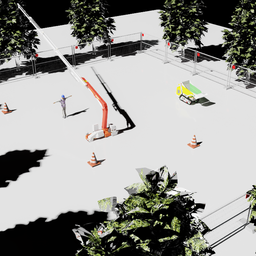
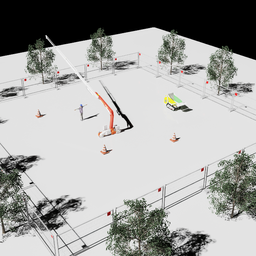
fix

diff --git a/generate_construction_data.py b/generate_construction_data.py
@@ -1194,146 +1194,9 @@ def build_crane_part_map(stage):
 
 def fix_scene_materials(stage):
     """
-    修复树木和交通锥的材质 - 使用OmniPBR（MDL）材质
-    
-    UsdPreviewSurface在Isaac Sim RTX渲染器中不能正确显示,
-    必须使用OmniPBR (MDL shader) 才能在RTX模式下正确渲染颜色。
-    
-    只在初始化时调用一次。
+    树木材质已在USD源文件中修复（纹理路径已更正），无需运行时修改。
     """
-    from pxr import UsdShade, Gf, Sdf
-    
-    # 获取场景路径，计算纹理目录
-    scene_path = stage.GetRootLayer().identifier
-    scene_dir = os.path.dirname(scene_path)         # cad_models/
-    project_dir = os.path.dirname(scene_dir)          # 项目根目录
-    textures_dir = os.path.join(project_dir, "textures")
-    
-    texture_leaves_path = os.path.join(textures_dir, "Branches0018_1_S.png")
-    texture_bark_path = os.path.join(textures_dir, "BarkDecidious0107_M.jpg")
-    texture_cone_path = os.path.join(textures_dir, "Traffic Cone UV Fixed.png")
-    
-    print(f"  纹理目录: {textures_dir}")
-    print(f"  树叶纹理: {'✓' if os.path.exists(texture_leaves_path) else '✗'}")
-    print(f"  树皮纹理: {'✓' if os.path.exists(texture_bark_path) else '✗'}")
-    print(f"  交通锥纹理: {'✓' if os.path.exists(texture_cone_path) else '✗'}")
-    
-    # 确保 /World/Looks 存在
-    if not stage.GetPrimAtPath("/World/Looks"):
-        stage.DefinePrim("/World/Looks", "Scope")
-    
-    def create_omnipbr_material(mat_path, diffuse_color, texture_path=None, roughness=0.5):
-        """
-        创建OmniPBR (MDL) 材质 - Isaac Sim RTX渲染器原生支持
-        
-        参数:
-            mat_path: 材质USD路径
-            diffuse_color: Gf.Vec3f 漫反射颜色
-            texture_path: 可选纹理文件绝对路径
-            roughness: 粗糙度
-        """
-        if stage.GetPrimAtPath(mat_path):
-            stage.RemovePrim(mat_path)
-        
-        material = UsdShade.Material.Define(stage, mat_path)
-        shader = UsdShade.Shader.Define(stage, mat_path + "/Shader")
-        
-        # === OmniPBR MDL Shader ===
-        shader.SetSourceAsset("OmniPBR.mdl", "mdl")
-        shader.SetSourceAssetSubIdentifier("OmniPBR", "mdl")
-        
-        # 设置漫反射颜色
-        shader.CreateInput("diffuse_color_constant", Sdf.ValueTypeNames.Color3f).Set(diffuse_color)
-        
-        # 设置纹理（如果有）
-        if texture_path and os.path.exists(texture_path):
-            texture_filename = os.path.basename(texture_path)
-            relative_path = f"../textures/{texture_filename}"
-            shader.CreateInput("diffuse_texture", Sdf.ValueTypeNames.Asset).Set(relative_path)
-            # 启用纹理
-            shader.CreateInput("diffuse_color_constant", Sdf.ValueTypeNames.Color3f).Set(Gf.Vec3f(1.0, 1.0, 1.0))
-            print(f"    OmniPBR + 纹理: {texture_filename}")
-        else:
-            print(f"    OmniPBR 纯色: RGB({diffuse_color[0]:.2f}, {diffuse_color[1]:.2f}, {diffuse_color[2]:.2f})")
-        
-        # 粗糙度和金属度
-        shader.CreateInput("reflection_roughness_constant", Sdf.ValueTypeNames.Float).Set(roughness)
-        shader.CreateInput("metallic_constant", Sdf.ValueTypeNames.Float).Set(0.0)
-        
-        # 连接MDL surface output
-        material.CreateSurfaceOutput("mdl").ConnectToSource(shader.ConnectableAPI(), "out")
-        
-        # 同时创建UsdPreviewSurface作为备用（非RTX渲染器可能用到）
-        shader_preview = UsdShade.Shader.Define(stage, mat_path + "/PreviewShader")
-        shader_preview.CreateIdAttr("UsdPreviewSurface")
-        shader_preview.CreateInput("diffuseColor", Sdf.ValueTypeNames.Color3f).Set(diffuse_color)
-        shader_preview.CreateInput("roughness", Sdf.ValueTypeNames.Float).Set(roughness)
-        shader_preview.CreateInput("metallic", Sdf.ValueTypeNames.Float).Set(0.0)
-        material.CreateSurfaceOutput().ConnectToSource(shader_preview.ConnectableAPI(), "surface")
-        
-        return material
-    
-    # ===== 创建材质 =====
-    leaves_color = Gf.Vec3f(0.15, 0.55, 0.12)   # 绿色
-    bark_color = Gf.Vec3f(0.35, 0.22, 0.10)      # 棕色
-    cone_color = Gf.Vec3f(1.0, 0.4, 0.0)         # 橙色
-    
-    print(f"\n  创建树叶材质 (OmniPBR)...")
-    leaves_mat = create_omnipbr_material(
-        "/World/Looks/TreeLeaves", leaves_color,
-        texture_path=texture_leaves_path, roughness=0.7
-    )
-    
-    print(f"  创建树干材质 (OmniPBR)...")
-    bark_mat = create_omnipbr_material(
-        "/World/Looks/TreeBark", bark_color,
-        texture_path=texture_bark_path, roughness=0.8
-    )
-    
-    print(f"  创建交通锥材质 (OmniPBR)...")
-    cone_mat = create_omnipbr_material(
-        "/World/Looks/TrafficCone", cone_color,
-        texture_path=texture_cone_path, roughness=0.6
-    )
-    
-    # ===== 应用树木材质 =====
-    tree_parent = stage.GetPrimAtPath("/World/Tree")
-    tree_mesh_count = 0
-    if tree_parent and tree_parent.IsValid():
-        for desc in Usd.PrimRange(tree_parent):
-            if desc.IsA(UsdGeom.Mesh):
-                UsdShade.MaterialBindingAPI.Apply(desc)
-                UsdShade.MaterialBindingAPI(desc).Bind(leaves_mat)
-                
-                # 设置displayColor（确保点云颜色）
-                gprim = UsdGeom.Gprim(desc)
-                gprim.GetDisplayColorAttr().Set([leaves_color])
-                tree_mesh_count += 1
-        print(f"  ✓ 树木: {tree_mesh_count} 个Mesh 已应用绿色OmniPBR材质")
-    else:
-        print("  ⚠ 未找到 /World/Tree")
-    
-    # ===== 应用交通锥材质 =====
-    gp = stage.GetPrimAtPath("/World/GroundPlane")
-    cone_mesh_count = 0
-    cone_obj_count = 0
-    if gp and gp.IsValid():
-        for child in gp.GetChildren():
-            if child.GetName().startswith("Cone001") or "Cone" in child.GetName():
-                cone_obj_count += 1
-                for desc in Usd.PrimRange(child):
-                    if desc.IsA(UsdGeom.Mesh):
-                        UsdShade.MaterialBindingAPI.Apply(desc)
-                        UsdShade.MaterialBindingAPI(desc).Bind(cone_mat)
-                        
-                        gprim = UsdGeom.Gprim(desc)
-                        gprim.GetDisplayColorAttr().Set([cone_color])
-                        cone_mesh_count += 1
-        print(f"  ✓ 交通锥: {cone_obj_count} 个锥, {cone_mesh_count} 个Mesh 已应用橙色OmniPBR材质")
-    else:
-        print("  ⚠ 未找到 /World/GroundPlane")
-    
-    return {"tree_meshes": tree_mesh_count, "cone_meshes": cone_mesh_count}
+    print("  ✓ 树木: 使用原始纹理（bark_0004.jpg + DB2X2_L01.png）")
 
 
 def setup_scene_lighting(stage):
@@ -1462,9 +1325,9 @@ async def generate_data():
     print(f"\n[诊断] 设置场景光照...")
     setup_scene_lighting(stage)
     
-    # 修复树木和交通锥材质（OmniPBR）
-    print(f"\n[诊断] 修复场景材质...")
-    material_results = fix_scene_materials(stage)
+    # 树木保留原始纹理，不做修改
+    print(f"\n[诊断] 场景材质检查...")
+    fix_scene_materials(stage)
     
     """1. 设置相机"""
     print(f"\n[步骤1] 初始化相机...")
